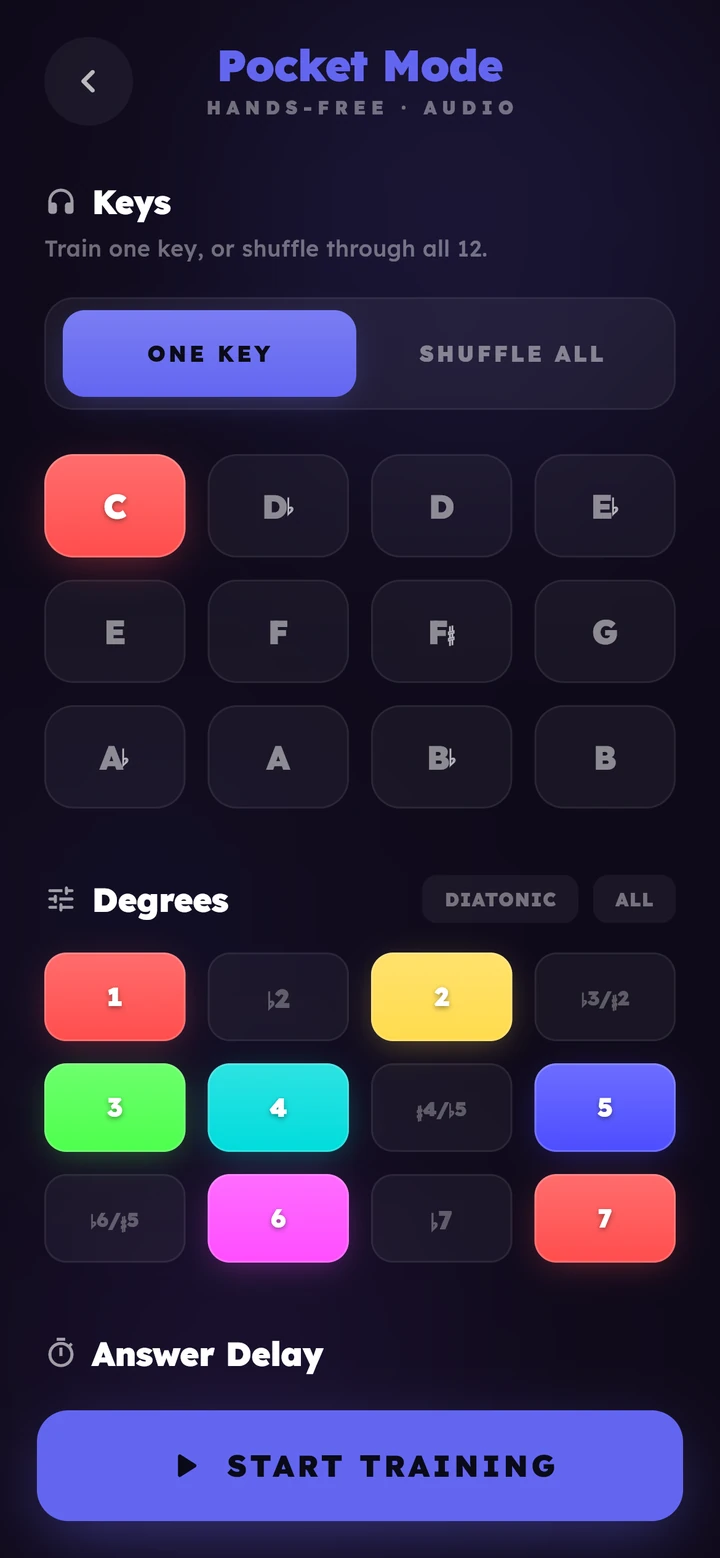
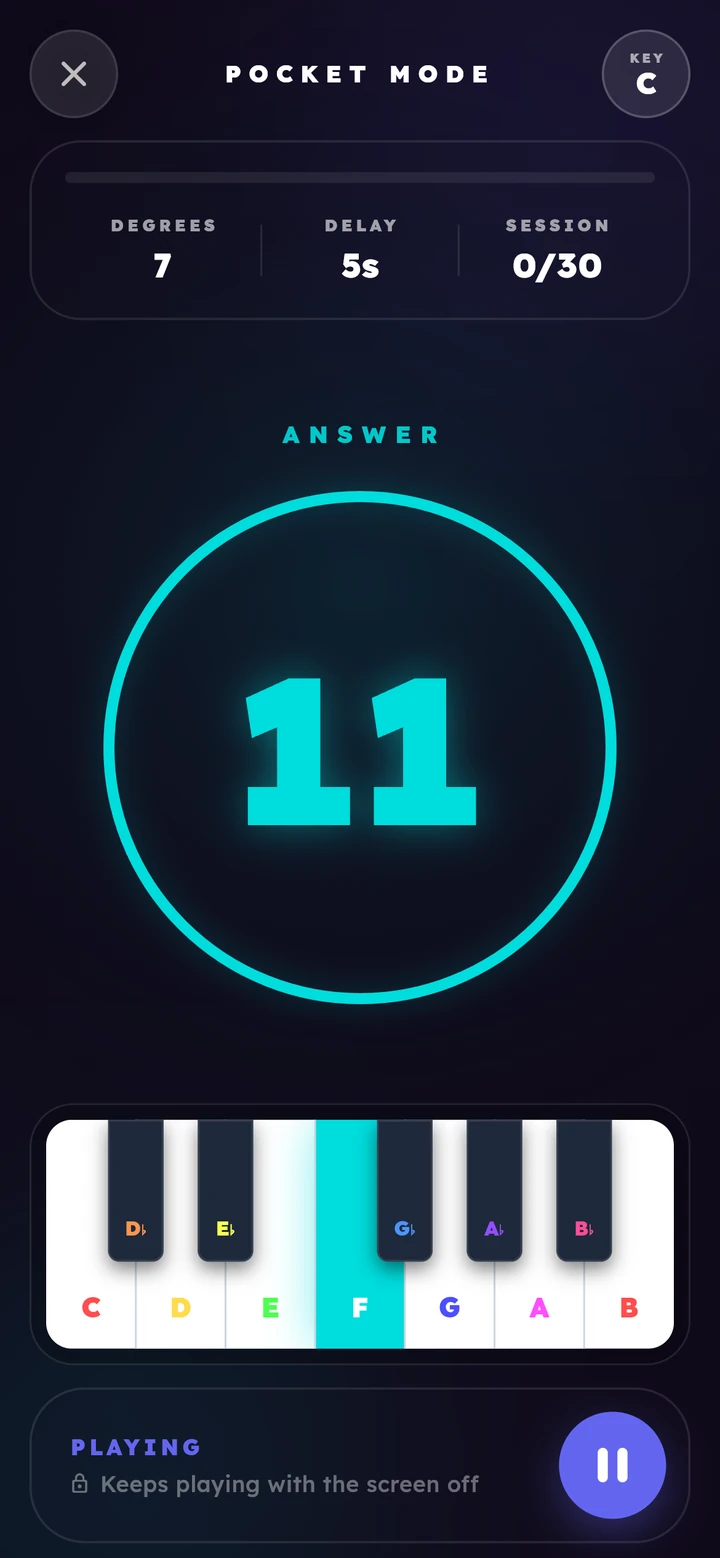
Link the live Google Play listing, and show Pocket Mode in play
Google Play is live, so the store button is now a real link to
play.google.com/store/apps/details?id=com.improvy.app (new tab, rel
noopener) and reads "Get it on" instead of "Coming soon". The section
header becomes "Now on Android — free to start", the App Store button
stays a coming-soon placeholder, and its notice and the checkout blurb
are reworded to "live on Google Play, App Store to follow". iOS copy is
untouched beyond that.

The Pocket Mode mockup on the Method page was showing the setup screen;
it now shows the mode actually running — the reveal frame, degree 11 in
the countdown ring with the answer note F lit on the keyboard — captured
from the real app the same way as the others.

diff --git a/src/App.tsx b/src/App.tsx
@@ -386,7 +386,7 @@ export default function App() {
                 className="pt-6 space-y-4"
               >
                 <div className="flex items-center gap-2">
-                  <p className="text-[12.5px] sm:text-sm font-sans uppercase tracking-[0.22em] bg-gradient-to-r from-[#f43f5e] via-[#d946ef] to-[#6366f1] bg-clip-text text-transparent font-black">Launching soon — free to start</p>
+                  <p className="text-[12.5px] sm:text-sm font-sans uppercase tracking-[0.22em] bg-gradient-to-r from-[#f43f5e] via-[#d946ef] to-[#6366f1] bg-clip-text text-transparent font-black">Now on Android — free to start</p>
                 </div>
                 <div className="flex flex-wrap gap-4">
                   {/* Premium Apple App Store Button */}
@@ -406,9 +406,12 @@ export default function App() {
                     </div>
                   </button>
 
-                  {/* Premium Google Play Button */}
-                  <button 
-                    onClick={() => handleInstallClick("Google Play Android")}
+                  {/* Premium Google Play Button — live on Android */}
+                  <a
+                    href="https://play.google.com/store/apps/details?id=com.improvy.app"
+                    target="_blank"
+                    rel="noopener noreferrer"
+                    aria-label="Get Improvy on Google Play"
                     className="flex items-center w-full sm:w-[220px] gap-4 bg-zinc-900 border border-white/10 hover:border-indigo-500/50 text-white px-6 py-4 rounded-2xl transition-all duration-300 active:scale-95 cursor-pointer shadow-lg hover:shadow-[0_0_20px_rgba(99,102,241,0.15)] group relative overflow-hidden focus:outline-none focus:ring-0"
                   >
                     {/* Magic sweep glass reflex beam */}
@@ -421,14 +424,14 @@ export default function App() {
                       <path d="M13.84 11.66L17.34 8.18L4.88 1.1C4.19 0.71 3.59 0.73 3.25 1.07L13.84 11.66Z" fill="#00E676" />
                     </svg>
                     <div className="flex flex-col items-start leading-none text-left">
-                      <span className="text-[10.5px] text-zinc-500 font-sans tracking-[0.12em] font-bold uppercase mb-1">Coming soon on</span>
+                      <span className="text-[10.5px] text-zinc-500 font-sans tracking-[0.12em] font-bold uppercase mb-1">Get it on</span>
                       <span className="text-base font-sans font-bold text-white">Google Play</span>
                     </div>
-                  </button>
+                  </a>
                 </div>
                 {storeNotice && (
                   <p className="text-[11.5px] text-[#e5a93c] font-sans font-semibold pt-1">
-                    Improvy is launching soon — the download links go live at release.
+                    The iOS version is coming soon — Improvy is live now on Google Play.
                   </p>
                 )}
               </motion.div>

diff --git a/src/components/WhyImprovyPage.tsx b/src/components/WhyImprovyPage.tsx
@@ -601,7 +601,7 @@ export function WhyImprovyPage({ onBack }: WhyImprovyPageProps) {
                   streak="Continuous"
                   timer="AUTO"
                   screenshot={methodPocketImg}
-                  screenshotAlt="Improvy Pocket Mode setup — choosing key, degrees, answer delay and length for a hands-free audio session"
+                  screenshotAlt="Improvy Pocket Mode in play — the hands-free audio drill revealing degree 11 with the answer note F lit on the keyboard"
                 />
               </div>
             </div>

diff --git a/src/components/CheckoutPro.tsx b/src/components/CheckoutPro.tsx
@@ -73,7 +73,7 @@ export function CheckoutPro({ onBack }: CheckoutProProps) {
             </div>
 
             <p className="text-sm text-zinc-350 font-light leading-relaxed">
-              Improvy is launching soon on the App Store and Google Play. Pro unlocks with a
+              Improvy is on Google Play now, with the App Store to follow. Pro unlocks with a
               single in-app purchase — no subscription, no recurring fees, yours for life.
             </p>
 
